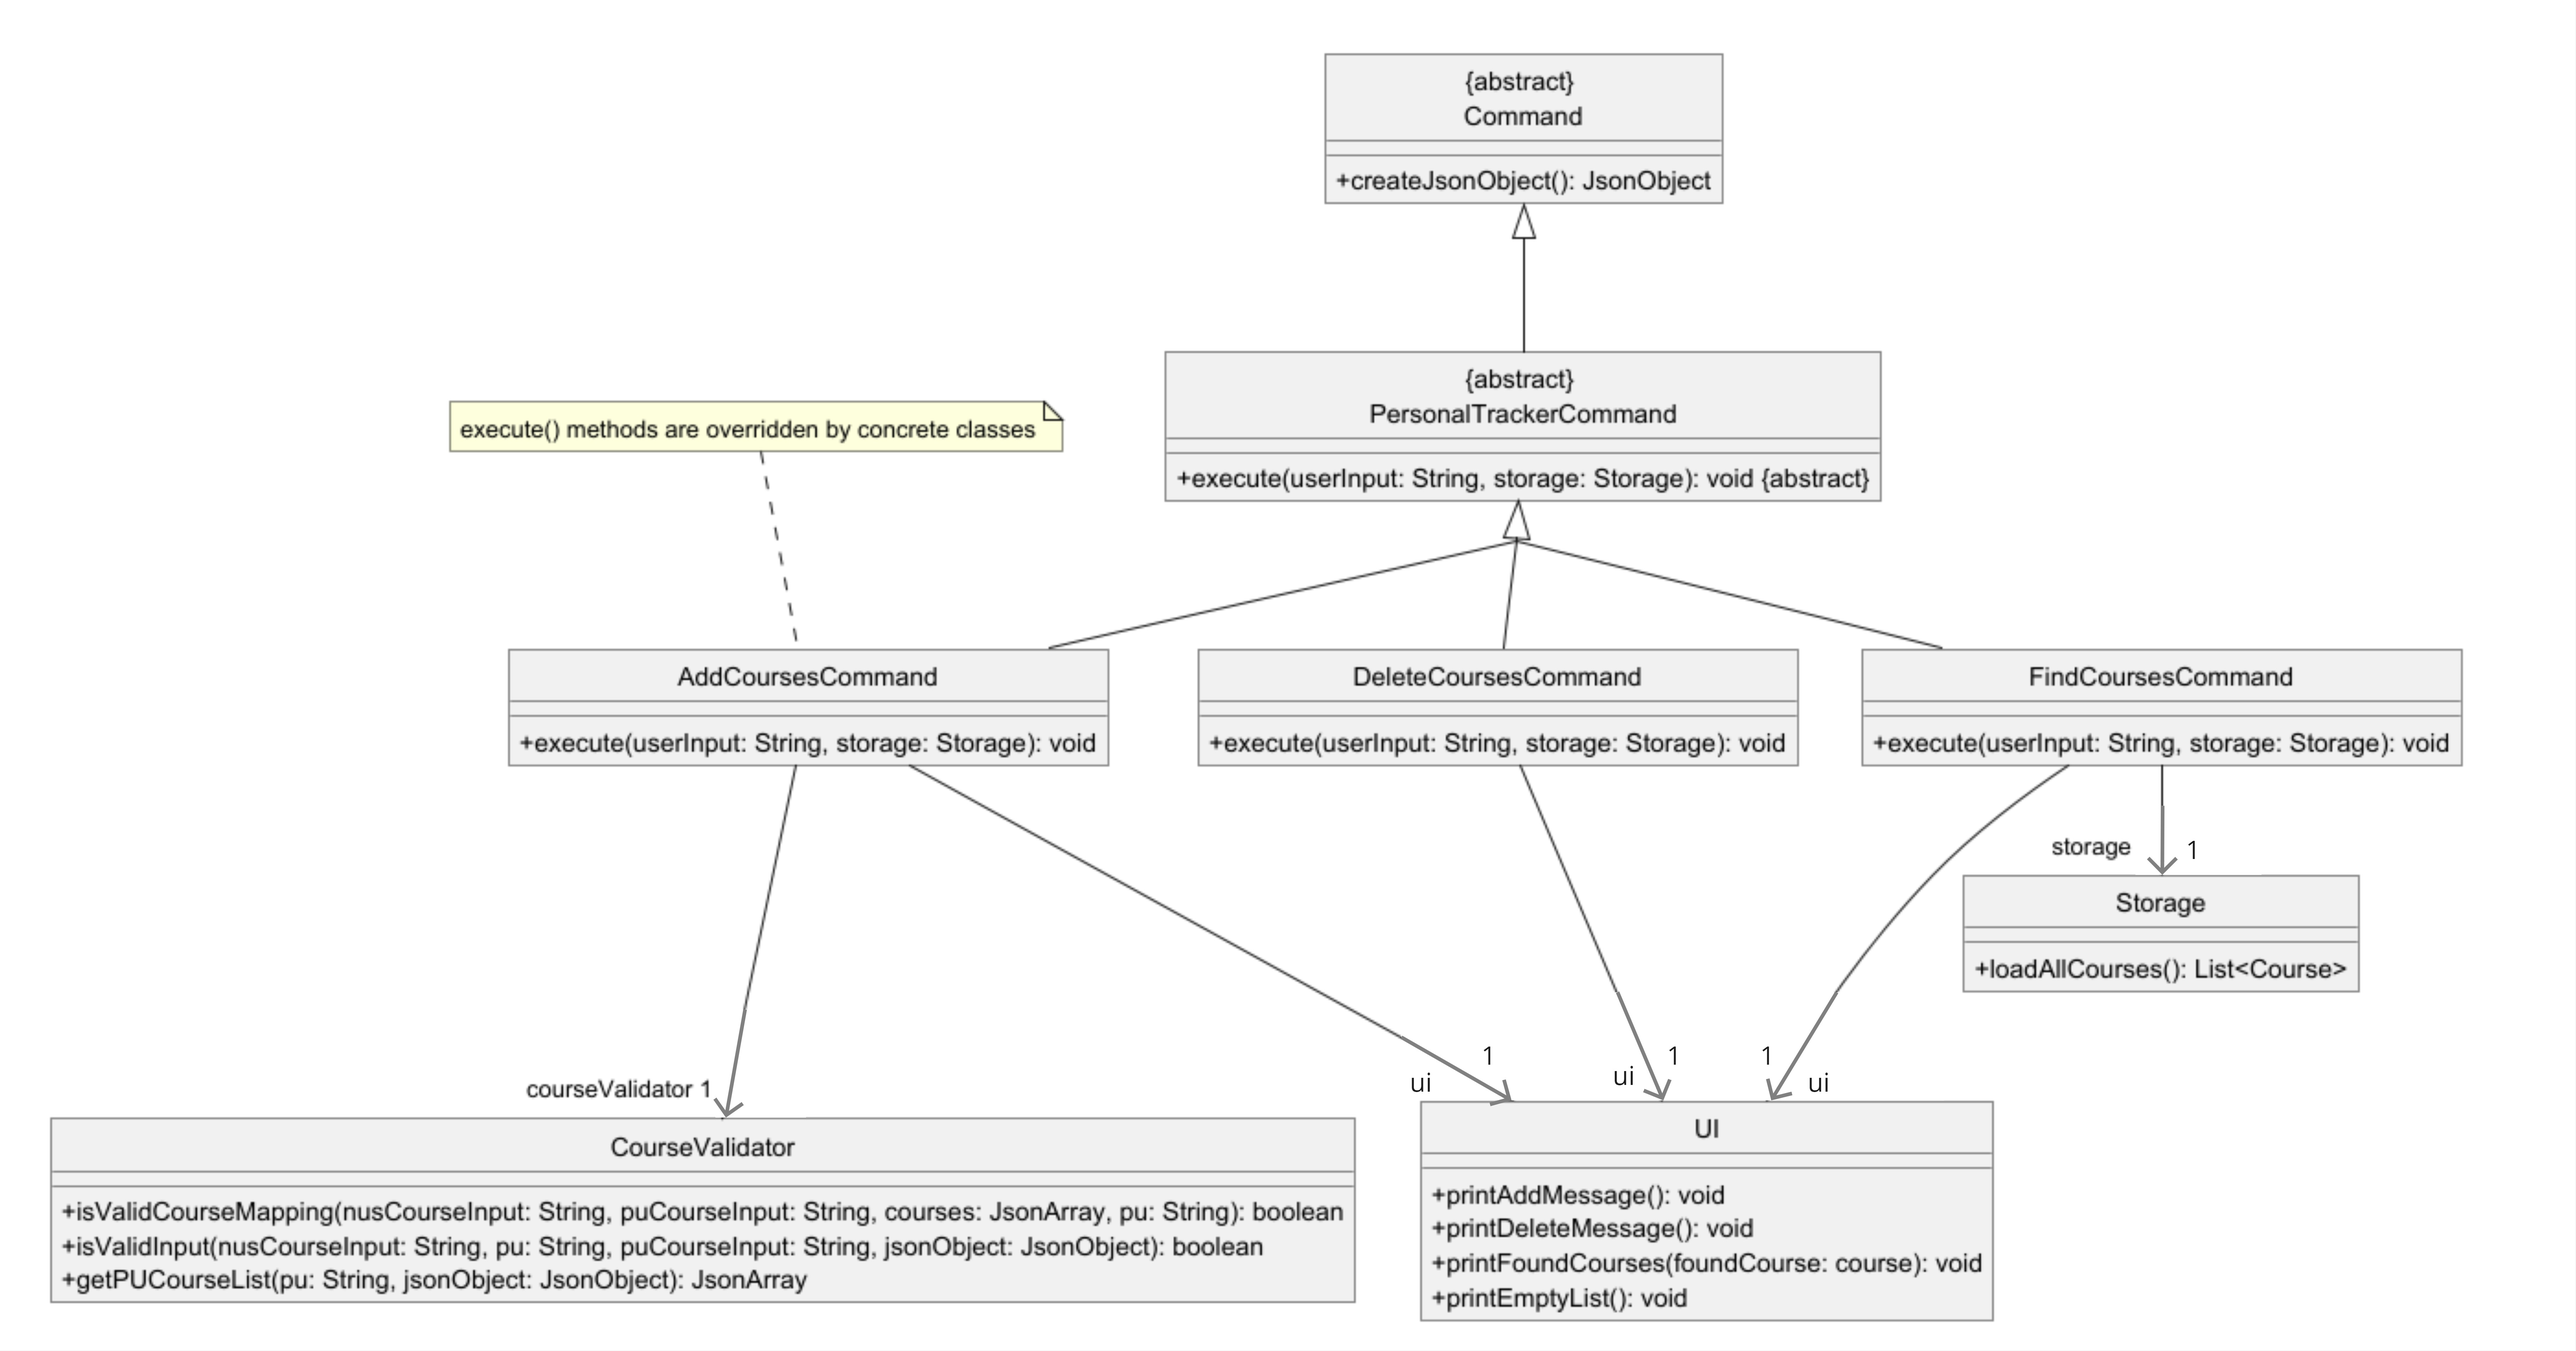
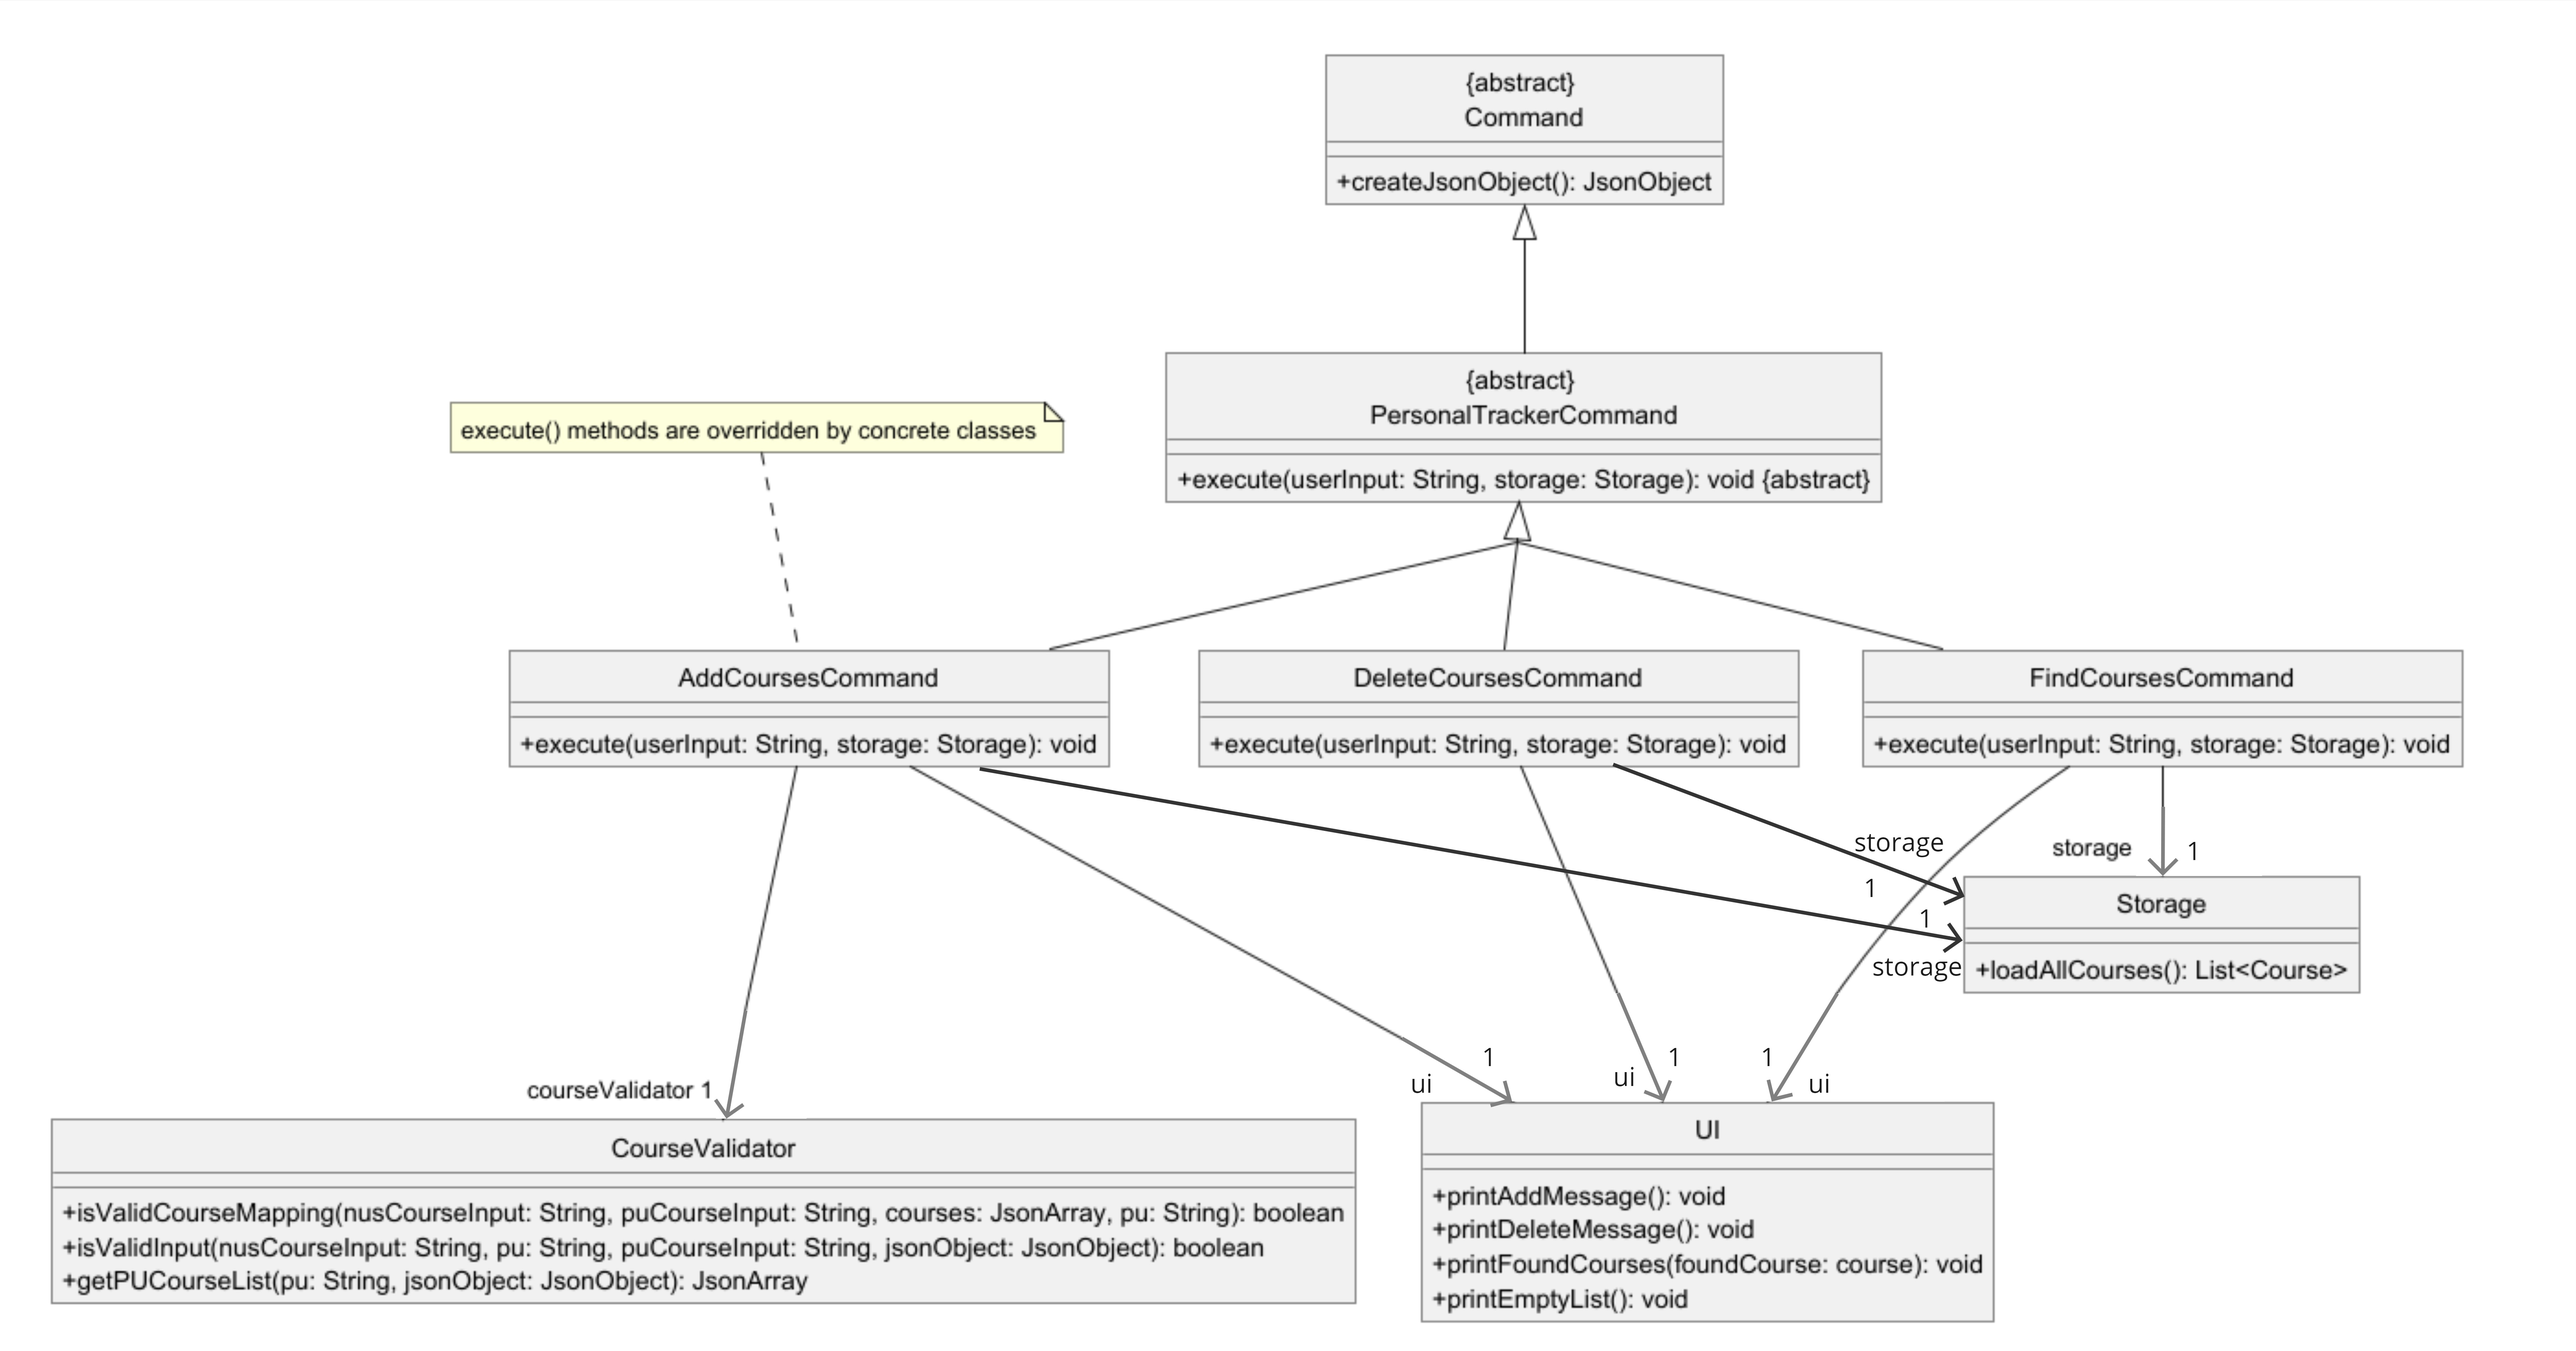
Update DG documentation details for command package

diff --git a/docs/DeveloperGuide.md b/docs/DeveloperGuide.md
@@ -97,11 +97,56 @@ interact with a given component through its interface rather than the concrete c
 
 ### Class Diagrams
 
-#### Command Package:
+#### Command Struture:
 
 ![Class diagram for Commands](images/CommandClassInheritance.png)
+
+The abstract command classes for our two main features, `CheckInformationCommand` and `PersonalTrackerCommand`.
+must inherit from the abstract `Command` class, which has the method to read the Json file containing course 
+information. Each child class has the abstract `execute` method, to be implemented by their concrete child classes,
+specific to the command functionality.
+
 ![Class diagram for CheckInformationCommand](images/CheckInformationCommandClass.jpg)
+
+
+`CheckInformationCommands` list out information from the JSON file containing course mapping information, or from the
+user's Personal Tracker.
+
+Possible `CheckInformationCommands` are:
+1. `ListCommandsCommand`
+2. `HelpCommand`
+3. `ListSchoolsCommand`
+4. `ListUniCoursesCommand`
+5. `ObtainContactsCommand`
+6. `FilterCoursesCommand`
+7. `ListPersonalTrackerCommand`
+8. `CompareMappedCommand`
+
+The above list of Command classes are concrete classes, and must implement the abstract 
+`execute(userInput)` method.
+
+
 ![Class diagram for CheckInformationCommand](images/PersonalTrackerCommandClass.jpg)
+
+
+`PersonalTrackerCommands` are commands that can modify the user's saved mapping plans from the Personal Tracker,
+as well as access the list of saved mappings.
+
+Possible `CheckInformationCommands` are:
+1. `AddCoursesCommand`
+2. `DeleteCoursesCommand`
+3. `FindCoursesCommand`
+
+The above list of Command classes are concrete classes, and must implement the abstract
+`execute(userInput, storage)` method.
+
+
+#### Addition of new command features
+When adding new command classes, developers should make sure that the concrete class inherits from either the
+`CheckInformationCommand` or `PersonalTrackerCommand` classes, depending on the new command's functionality.
+The new command class should also have an implementation of the `execute` method, and uses the `UI` class to 
+print messages on the CLI interface.
+
 
 #### Parser class diagram:
 The Parser class is responsible for handling and interpreting user input in the application. It reads user commands,
@@ -385,10 +430,12 @@ This helps the users to keep track of their most recent course mapping plans, an
 * When `execute` is called, the command first passes the user's input into the `parseDeleteCommand` method, which parses
   the user input to extract the list index, still of `String` type, of the course mapping plan
   they would like to delete.
-* The parsed input is then passed into the `deleteCourse` method, along with the Storage object, which updates the
-  `myList.json` file. The list index is then converted to an `int` using the `Integer` class. If a valid list index
-  has been given by the user, the list index is passed into the storage object's `deleteCourse` method to delete the
-  plan stored at that index.
+* The parsed input is then passed into the `getListIndex` method. The list index is then converted to an `int` using the 
+  `Integer` class. If a valid list index format has been given by the user, the list index is returned.
+* The list index, along with the Storage object, is passed into the `deleteCourse` method, which calls the `getCourse` 
+  method from the Storage object, and accesses the line in the `myList.json` file as specified by the list index to 
+  obtain information of the course to delete, then deletes the course using the `deleteCourse` method from the 
+  Storage object.
 * Lastly, the UI object's `printDeleteMessage` is called to inform the user of the course plan which is deleted.
 * Throughout the code, exceptions, assertions and logging are in place for better error handling.
 * Line Separator is used to ensure readability and ease of use for users.
